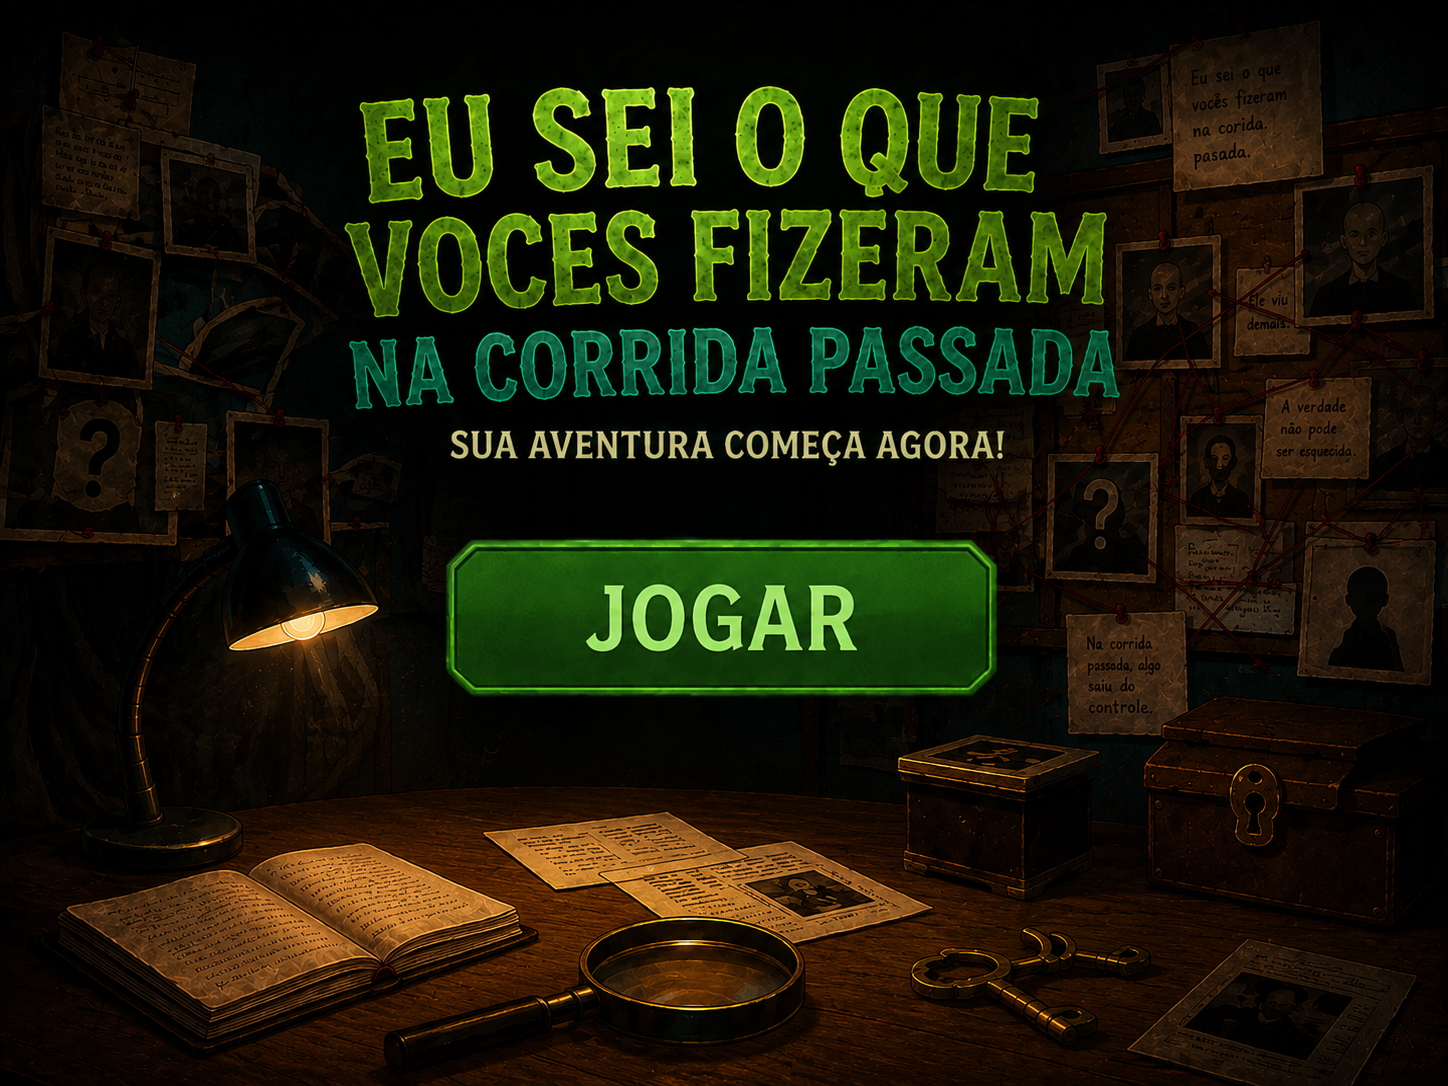
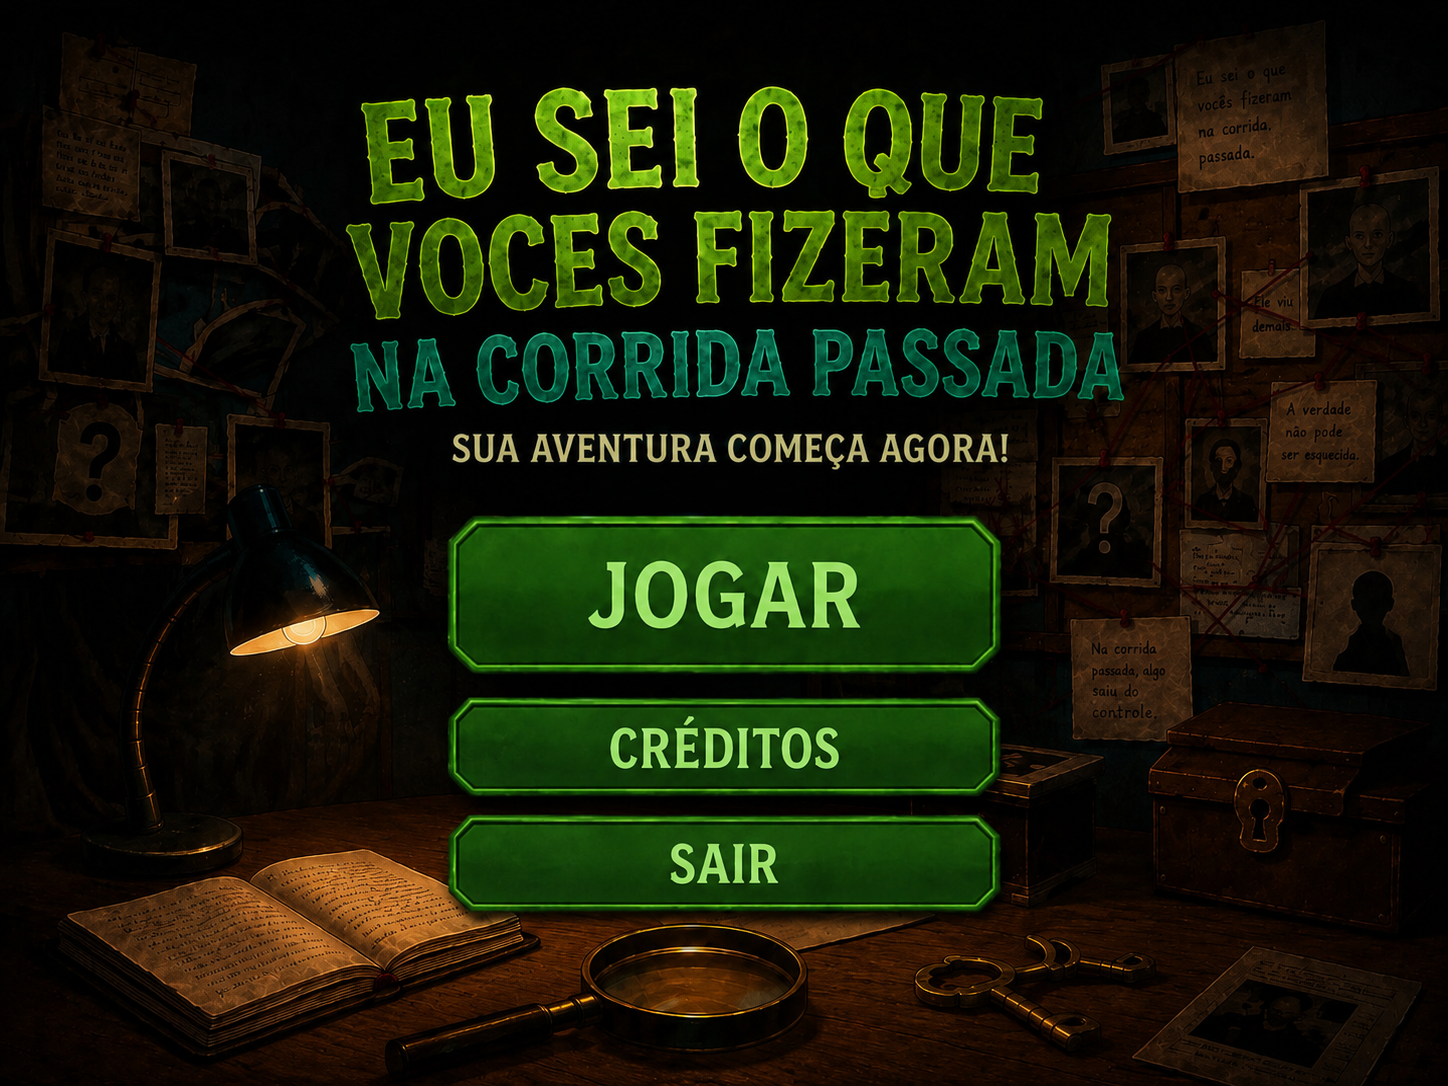
Atualizei os creditos, o menu, o main e adicionei a capa nova

diff --git a/menu.py b/menu.py
@@ -32,10 +32,10 @@ class Menu:
 
         # BOTÃO SAIR
         self.botao_sair = pygame.Rect(
-            400,
-            605,
-            500,
-            80
+            380,
+            560,
+            520,
+            110
         )
 
     def desenhar(self, tela):

diff --git a/creditos.py b/creditos.py
@@ -26,11 +26,11 @@ class Creditos:
 
         linhas = [
 
-            "Desenvolvedor: Ana Allyce, Lays Eduarda, Ana Elida"
+            "Desenvolvedor: Ana Allyce, Lays Eduarda, Ana Elida",
 
-            "Historia: Ana Allyce, lays eduarda, Ana Elida"
+            "Historia: Ana Allyce, lays eduarda, Ana Elida",
 
-            "Programacao: Ana Allyce, Lays Eduarda, Ana Elida"
+            "Programacao: Ana Allyce, Lays Eduarda, Ana Elida",
 
             "Agradecimentos especiais:",
 

diff --git a/main.py b/main.py
@@ -93,6 +93,7 @@ while rodando:
                     fase = "creditos"
 
                 elif menu.botao_sair.collidepoint(evento.pos):
+                    print("CLICOU EM SAIR")
 
                     rodando = False
 